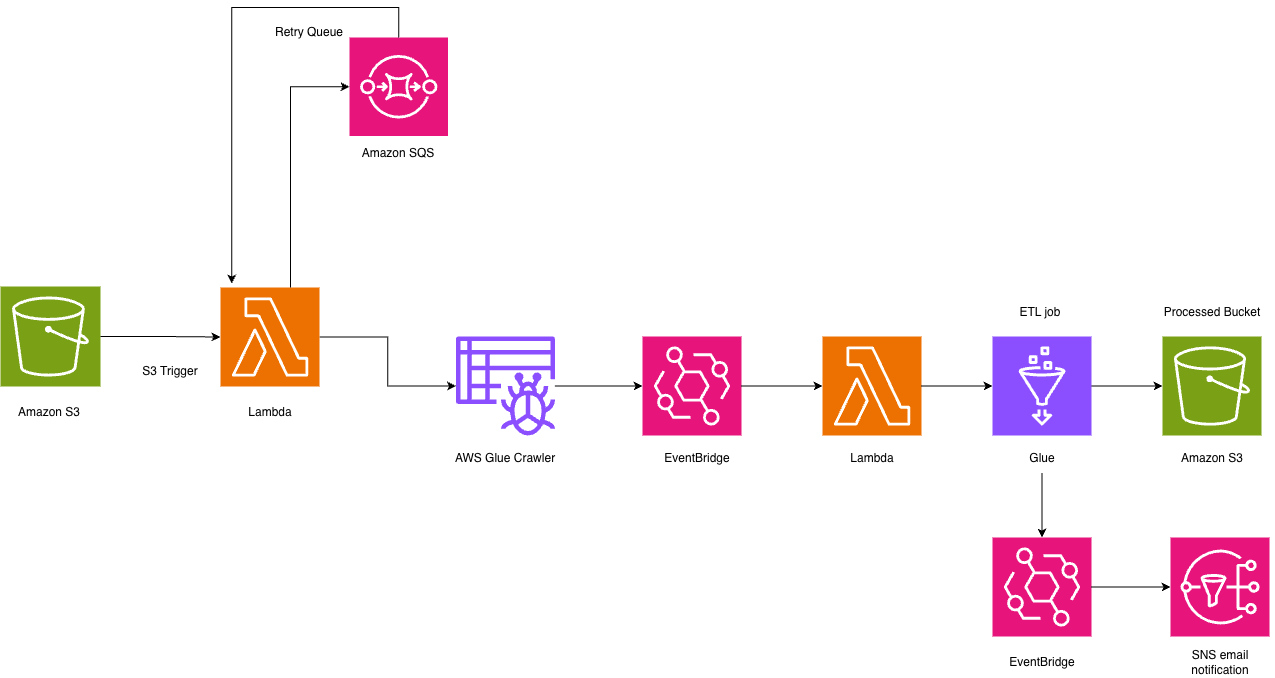
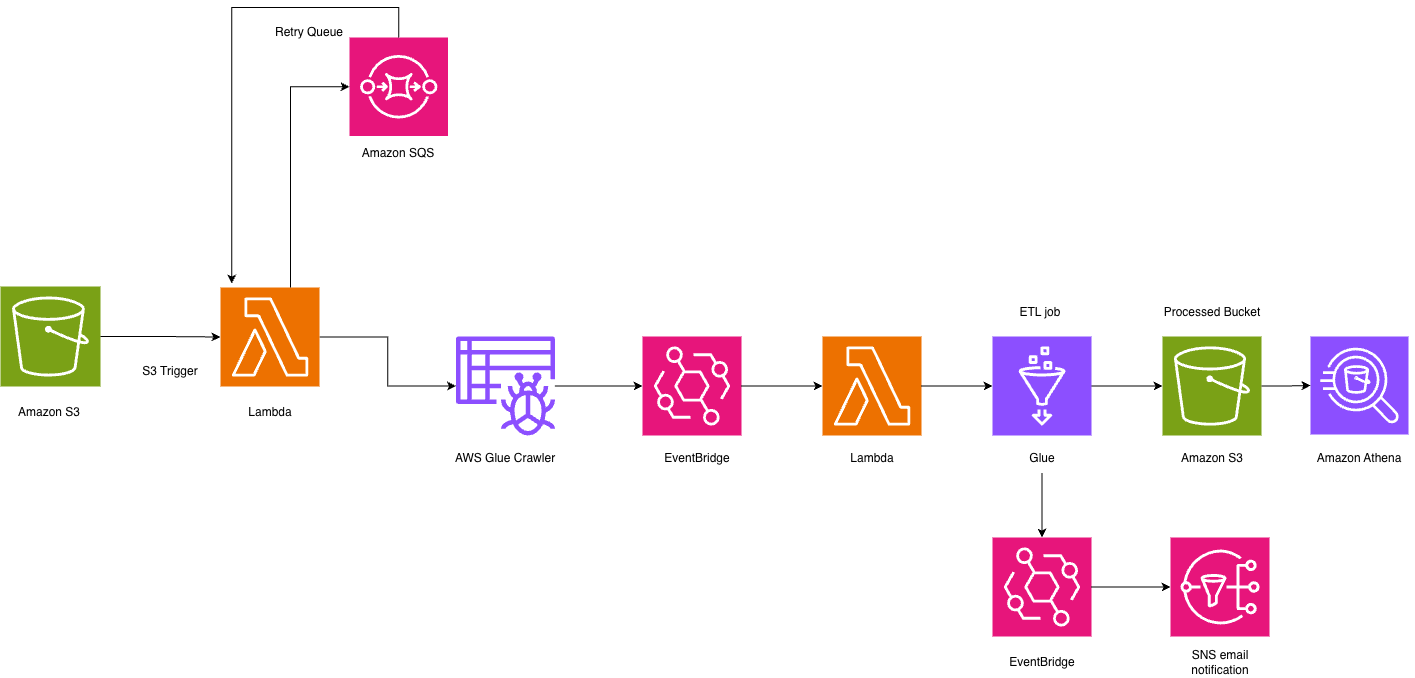
Feat: Enhance Lambda module with error handling capabilities, add dead letter queue, and update README.md to reflect Athena integration and new outputs

diff --git a/README.md b/README.md
@@ -1,6 +1,6 @@
 # Serverless Data Lake
 
-A serverless AWS data pipeline for ingesting, cataloging, and processing data using AWS Glue, Lambda, EventBridge, and S3. This infrastructure automatically processes raw data files uploaded to S3, catalogs them in the AWS Glue Data Catalog, transforms them using a Glue ETL job, and sends email notifications upon completion.
+A serverless AWS data pipeline for ingesting, cataloging, and processing data using AWS Glue, Lambda, EventBridge, S3, and Athena. This infrastructure automatically processes raw data files uploaded to S3, catalogs them in the AWS Glue Data Catalog, transforms them using a Glue ETL job, and makes the processed data queryable via Athena. Email notifications are sent upon completion.
 
 ## Architecture Overview
 
@@ -105,6 +105,17 @@ Two EventBridge rules orchestrate the pipeline:
 - **Subscription**: Email subscription to the address specified in `sns_topic_email_endpoint`
 - **Purpose**: Sends email notifications when the ETL job completes successfully
 
+### Amazon Athena
+
+- **Workgroup Name**: Uses the project name
+- **Table Name**: `athena_table`
+- **Purpose**: Provides serverless SQL query capability for analyzing processed data stored in Parquet format
+- **Configuration**:
+  - Engine Version: AUTO
+  - Managed Query Results: Enabled
+  - Data Source: Queries the processed data from `s3://<project-name>/processed/`
+  - Format: Parquet (external table in Glue Data Catalog)
+
 ## Prerequisites
 
 - Terraform >= 1.0
@@ -199,11 +210,40 @@ The Glue ETL job (`etljob.py`) performs the following transformations:
 - `modules/s3/`: S3 bucket creation with optional Lambda triggers and object uploads
 - `modules/lambda/`: Lambda function deployment with IAM roles and CloudWatch logging
 - `modules/glue/`: Glue database, crawler, and ETL job configuration
+- `modules/athena/`: Athena workgroup and Glue catalog table configuration for querying processed data
 
 ## Outputs
 
+The following outputs are available after deployment:
+
+### S3 Buckets
+
 - `s3_bucket_name`: Name of the raw data S3 bucket
-- `s3_lambda_trigger_function_name`: Name of the S3-triggered Lambda function
+- `s3_bucket_arn`: ARN of the raw data S3 bucket
+- `s3_scripts_bucket_name`: Name of the S3 scripts bucket (stores ETL job script)
+
+### Lambda Functions
+
+- `s3_lambda_trigger_function_name`: Name of the S3-triggered Lambda function (`data-lake-serverless`)
+- `s3_lambda_trigger_function_arn`: ARN of the S3-triggered Lambda function
+- `glue_crawler_succeeded_lambda_function_name`: Name of the Glue crawler succeeded Lambda function
+
+### AWS Glue
+
+- `glue_crawler_name`: Name of the Glue crawler
+- `glue_database_name`: Name of the Glue Data Catalog database
+- `etl_job_name`: Name of the Glue ETL job
+- `etl_job_arn`: ARN of the Glue ETL job
+
+### Amazon Athena
+
+- `athena_workgroup_name`: Name of the Athena workgroup
+- `athena_workgroup_arn`: ARN of the Athena workgroup
+- `athena_table_name`: Name of the Athena table for querying processed data
+
+### Amazon SNS
+
+- `sns_topic_arn`: ARN of the SNS topic for email notifications
 
 ## Cleanup
 
